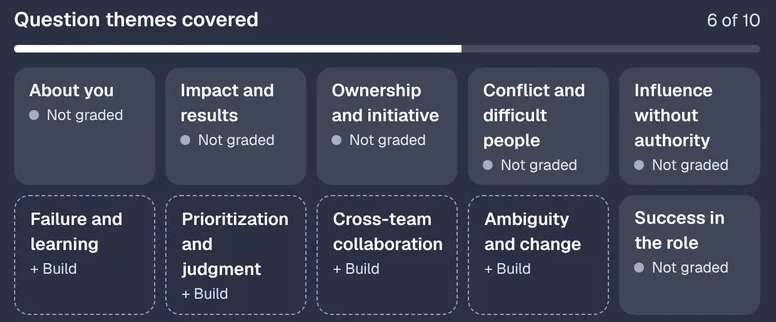
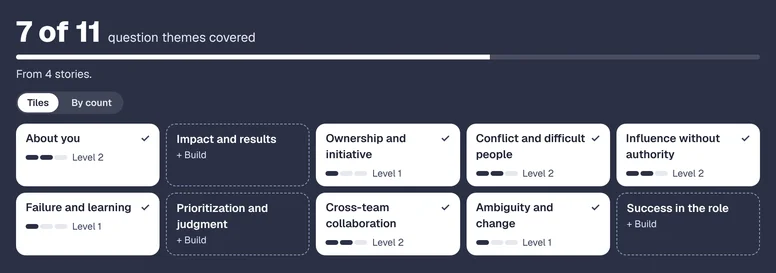
Public homepage: screenshots from the current app (design fix 10)
Claude-Session: https://claude.ai/code/session_0196c2K8ZrRR5Qk169nSkVx9

diff --git a/src/app/welcome/page.tsx b/src/app/welcome/page.tsx
@@ -141,7 +141,7 @@ export default function WelcomePage() {
               src="/home/dashboard.webp"
               width={1600}
               height={1075}
-              alt="The InterviewMax dashboard: a prep plan for an interview in 9 days, the story bank with 4 of 10 question themes covered, and the likely questions for the job."
+              alt="The InterviewMax home: the next step of the prep plan, an interview in 6 days with 3 of 8 likely questions ready and the next one to work on, and the story bank with 7 of 11 question themes covered."
               priority
             />
           </div>
@@ -191,7 +191,7 @@ export default function WelcomePage() {
                 src: "/home/story.webp",
                 width: 1200,
                 height: 977,
-                alt: "A finished story about winning over a skeptical finance VP, next to a criterion-by-criterion evaluation.",
+                alt: "A finished story at Level 2 of 3, what is missing for Level 3, and how it lands with what to fix next.",
               }}
               flip
             />
@@ -249,8 +249,8 @@ export default function WelcomePage() {
                   <Image
                     src="/home/coverage.webp"
                     width={776}
-                    height={322}
-                    alt="Question themes covered: 6 of 10, with tiles for themes like Impact and results, Conflict and difficult people, and Ambiguity and change."
+                    height={273}
+                    alt="Question themes covered: 7 of 11, with a tile and story level for themes like Impact and results, Conflict and difficult people, and Ambiguity and change."
                     sizes="(min-width: 1024px) 740px, 100vw"
                     className="mt-auto h-auto w-full px-3 pb-3 sm:px-4 sm:pb-4"
                   />
@@ -323,7 +323,7 @@ export default function WelcomePage() {
       </main>
 
       <footer className="mx-auto flex w-full max-w-6xl flex-wrap items-center justify-between gap-3 px-4 py-6 sm:px-6">
-        <span className="text-sm text-slate-500">© InterviewMax</span>
+        <span className="text-sm text-slate-600">© InterviewMax</span>
         <PolicyLinks />
       </footer>
     </div>

diff --git a/src/app/welcome/before-after.tsx b/src/app/welcome/before-after.tsx
@@ -35,7 +35,7 @@ export function BeforeAfter() {
             after ? "pointer-events-none scale-95 opacity-0" : "opacity-100"
           }`}
         >
-          <figcaption className="text-xs font-semibold text-slate-500">Before</figcaption>
+          <figcaption className="text-xs font-semibold text-slate-600">Before</figcaption>
           <blockquote className="mt-2 text-lg text-slate-600 italic">
             &ldquo;So, there was this onboarding project, and it was kind of a mess, and I helped
             out a lot with fixing things, and in the end it went pretty well, customers liked
